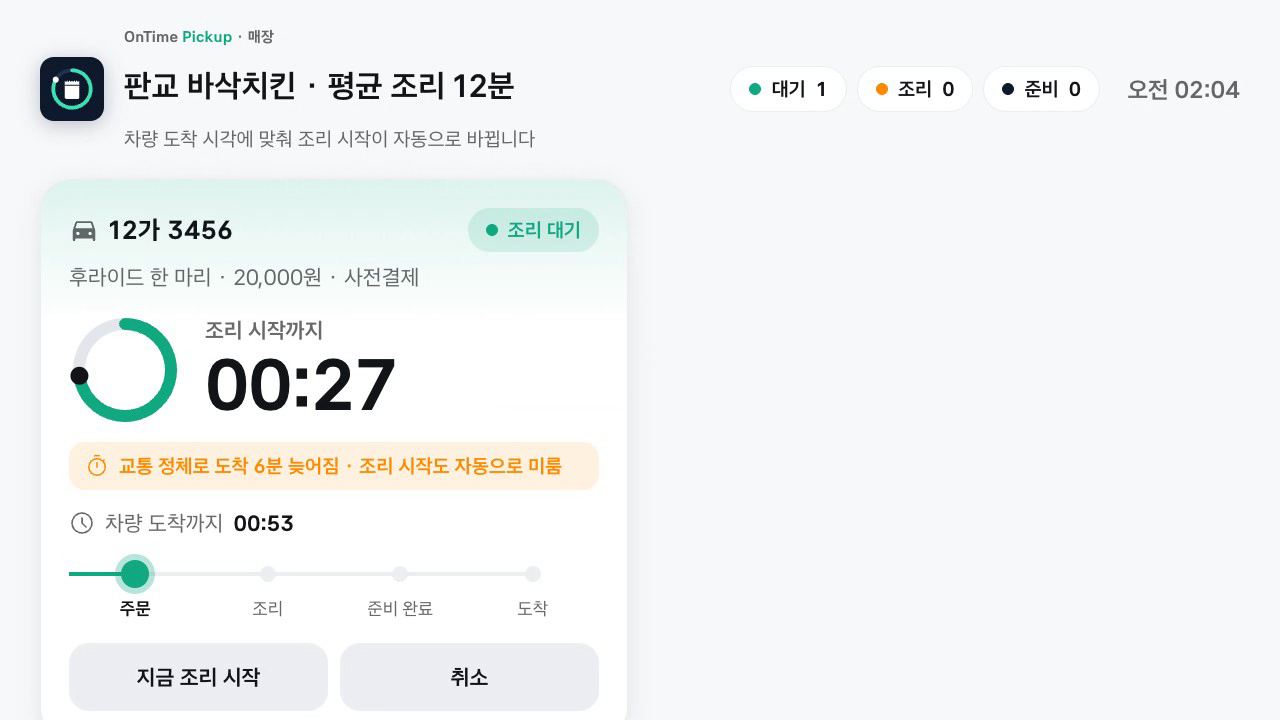
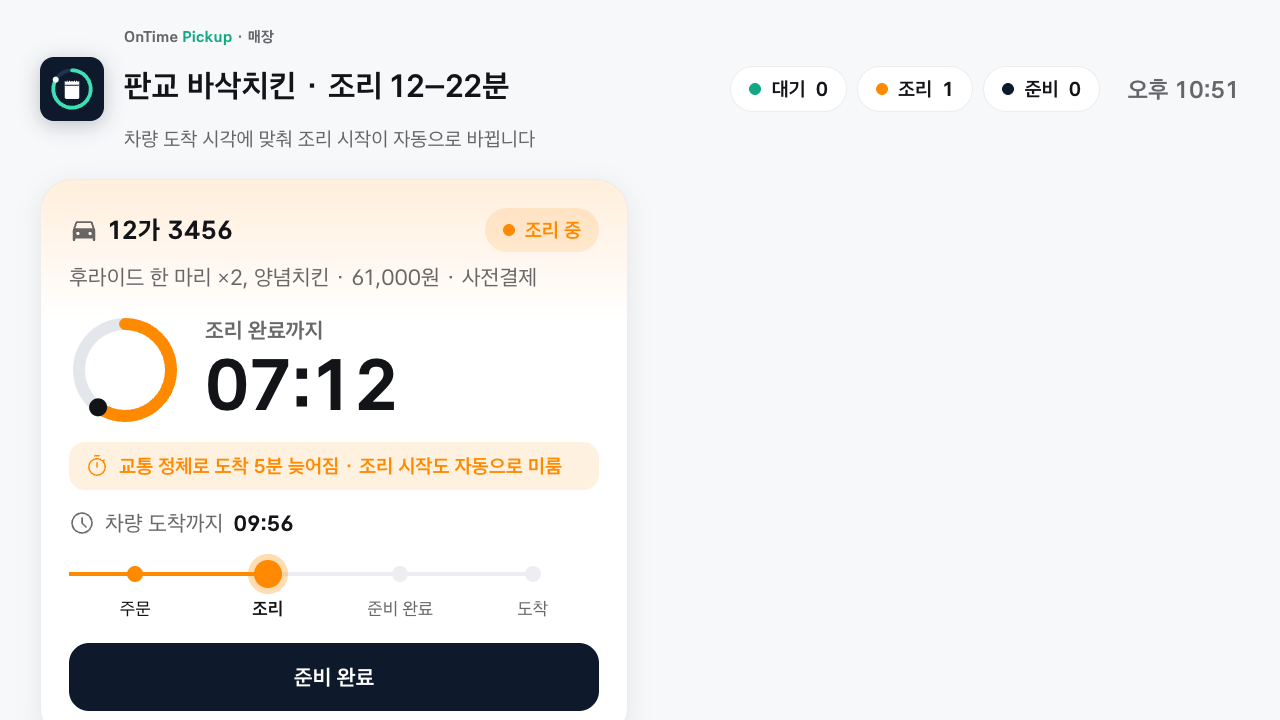
README 스크린샷 갱신, 매장 대시보드 같은 메뉴 묶음 표시
- 매장 목록 스크린샷 추가, 주문 진행과 같은 주문의 매장 대시보드를 나란히
- 대시보드: 장바구니로 같은 메뉴를 여러 개 주문하면 "후라이드 한 마리 ×2"로 묶어 표시

diff --git a/server/static/dashboard.html b/server/static/dashboard.html
@@ -115,6 +115,12 @@
 </header>
 <main id="list"></main>
 <script>
+// 같은 메뉴는 묶어서: "후라이드 한 마리 ×2, 양념치킨"
+function itemSummary(items) {
+  const counts = new Map();
+  for (const i of items) counts.set(i.name, (counts.get(i.name) || 0) + 1);
+  return [...counts].map(([n, c]) => c > 1 ? `${n} ×${c}` : n).join(', ');
+}
 const ICON = {
   car: `<svg class="i" viewBox="0 -960 960 960"><path d="M200-204v44q0 16.67-11.74 28.33Q176.53-120 159.76-120q-16.76 0-28.26-11.67Q120-143.33 120-160v-304q0-4.67.5-9.33.5-4.67 2.5-9.67l78-236q6-19 21.75-30T258-760h444q19.5 0 35.25 11T759-719l78 236q2 5 2.5 9.67.5 4.66.5 9.33v304q0 16.67-11.74 28.33Q816.53-120 799.76-120 783-120 771-131.96T759-161v-43H200Zm3-330h554l-55-166H258l-55 166Zm82.76 220q23.24 0 38.74-15.75Q340-345.5 340-368q0-23.33-15.75-39.67Q308.5-424 286-424q-23.33 0-39.67 16.26Q230-391.47 230-368.24q0 23.24 16.26 38.74 16.27 15.5 39.5 15.5ZM675-314q23.33 0 39.67-15.75Q731-345.5 731-368q0-23.33-16.26-39.67Q698.47-424 675.24-424q-23.24 0-38.74 16.26-15.5 16.27-15.5 39.5 0 23.24 15.75 38.74Q652.5-314 675-314Z"/></svg>`,
   timer: `<svg class="i" viewBox="0 -960 960 960"><path d="M390-860q-12.75 0-21.37-8.68-8.63-8.67-8.63-21.5 0-12.82 8.63-21.32 8.62-8.5 21.37-8.5h180q12.75 0 21.38 8.68 8.62 8.67 8.62 21.5 0 12.82-8.62 21.32-8.63 8.5-21.38 8.5H390Zm90.18 447q12.82 0 21.32-8.63 8.5-8.62 8.5-21.37v-170q0-12.75-8.68-21.38-8.67-8.62-21.5-8.62-12.82 0-21.32 8.62-8.5 8.63-8.5 21.38v170q0 12.75 8.68 21.37 8.67 8.63 21.5 8.63ZM480-81q-74 0-139.5-28.5T226-187q-49-49-77.5-114.5T120-441q0-74 28.5-139.5T226-695q49-49 114.5-77.5T480-801q67 0 126 22.5T711-716l30-30q9-9 21-9t21 9q9 9 9 21t-9 21l-30 30q36 40 61.5 97T840-441q0 74-28.5 139.5T734-187q-49 49-114.5 77.5T480-81Zm0-60q125 0 212.5-87.5T780-441q0-125-87.5-212.5T480-741q-125 0-212.5 87.5T180-441q0 125 87.5 212.5T480-141Zm0-299Z"/></svg>`,
@@ -183,7 +189,7 @@ function card(o) {
   }[o.status] || [];
   return `<div class="card ${arrived ? 'arrived' : ''}" style="--accent:${arrived ? 'var(--ready)' : ACCENT[o.status]}">
     <div class="top"><span class="plate">${ICON.car}${o.carPlate}</span><span class="chip"><span class="dot"></span>${STATUS[o.status]}</span></div>
-    <div class="items">${o.items.map(i=>i.name).join(', ')} · ${o.total.toLocaleString()}원 · 사전결제</div>
+    <div class="items">${itemSummary(o.items)} · ${o.total.toLocaleString()}원 · 사전결제</div>
     <div class="hero">${hero(o)}</div>
     ${shift(o)}
     ${arrived ? `<div class="arrive">${ICON.check}차량이 매장 앞에 도착했어요</div>`

diff --git a/README.md b/README.md
@@ -14,15 +14,13 @@
 - APK: [`apk/박상원_OnTimePickup_release.apk`](apk/)
 - 시연 영상: [`demo/OnTimePickup_demo.mp4`](demo/OnTimePickup_demo.mp4) (1분 34초, 한국어 내레이션: 문제 상황 → Pleos Connect 에뮬레이터에서 매장 선택·메뉴판·장바구니·실제 주문 → 매장 대시보드 → 정체 시나리오 30배속 → 차 앞 픽업)
 
-| 매장 메뉴판 + 장바구니 (주차 중) | 주문 진행 (Pleos Connect Emulator, 실제 내비 ETA) |
+| 매장 목록 (주차 중) | 매장 메뉴판 + 장바구니 |
 |---|---|
-| ![메뉴판과 장바구니](demo/app_menu.png) | ![주문 진행](demo/app_order.png) |
+| ![매장 목록](demo/app_stores.png) | ![메뉴판과 장바구니](demo/app_menu.png) |
+| **주문 진행 (Pleos Connect Emulator, 실제 내비 ETA)** | **같은 주문의 매장 대시보드** |
+| ![주문 진행](demo/app_order.png) | ![매장 대시보드](demo/store_dashboard.png) |
 
-| 매장 대시보드 (정체 시나리오, 30배속) |
-|---|
-| ![매장 대시보드](demo/store_dashboard.png) |
-
-에뮬레이터에서 주문하면 NaviHelper가 실제로 매장까지 경로를 잡고, 내비가 준 남은 시간(위 화면은 10분)으로 조리 시작 시각이 정해진다. 왼쪽 링은 로고와 같은 모양으로, 매장까지 남은 시간만큼 줄어든다.
+에뮬레이터에서 주문하면 NaviHelper가 실제로 매장까지 경로를 잡고, 내비가 준 남은 시간(위 화면은 10분 남음)으로 조리 시작 시각이 정해진다. 왼쪽 링은 로고와 같은 모양으로, 매장까지 남은 시간만큼 줄어든다. 매장 대시보드에는 같은 주문이 차량 번호, 메뉴(같은 메뉴는 ×2로 묶음), 사전결제 금액과 함께 뜨고, 도착 예정이 늦어지면 조리 시작도 자동으로 미뤄진다. 정체 시나리오 전체 흐름은 시연 영상의 30배속 구간에서 볼 수 있다.
 
 ## 어떻게 동작하나
 1. 주차 중에는 매장 목록에서 매장을 골라 메뉴판(세트·면·밥·사이드 등 그룹별 개별 메뉴)에서 장바구니에 담고 수량을 정해 주문합니다. 경로 위에 있는 매장이 아니어도 됩니다.
